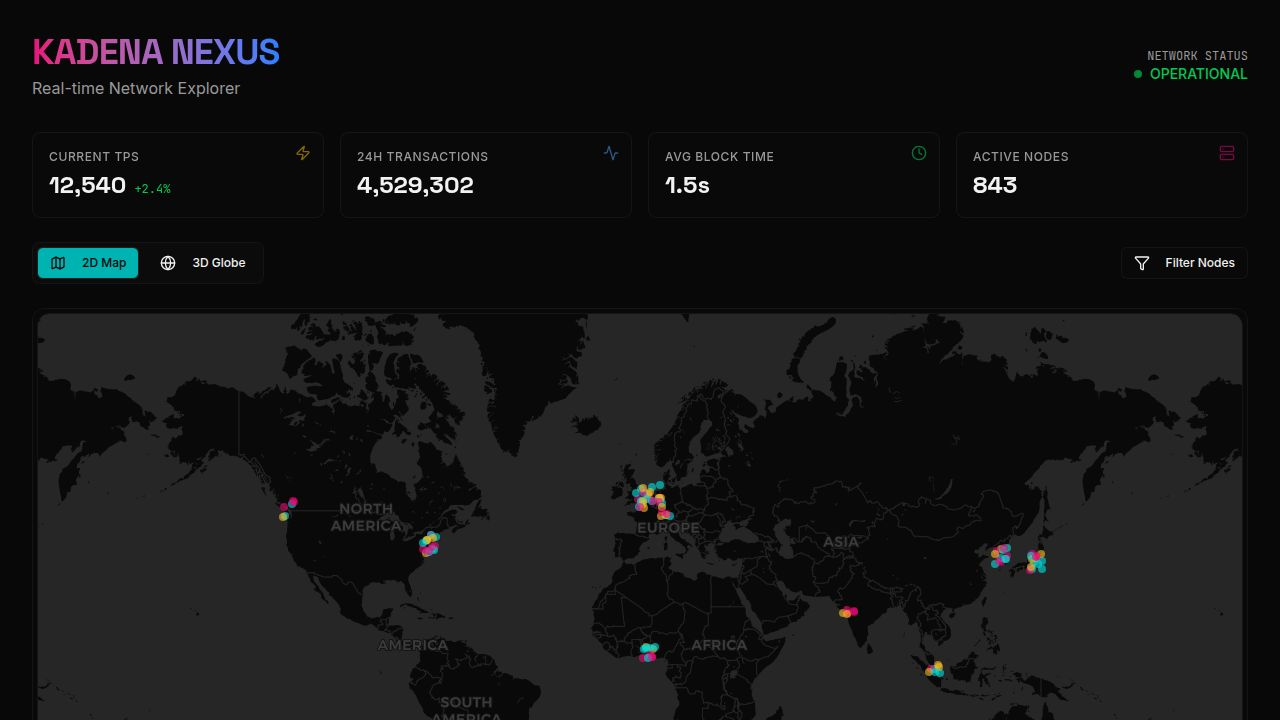
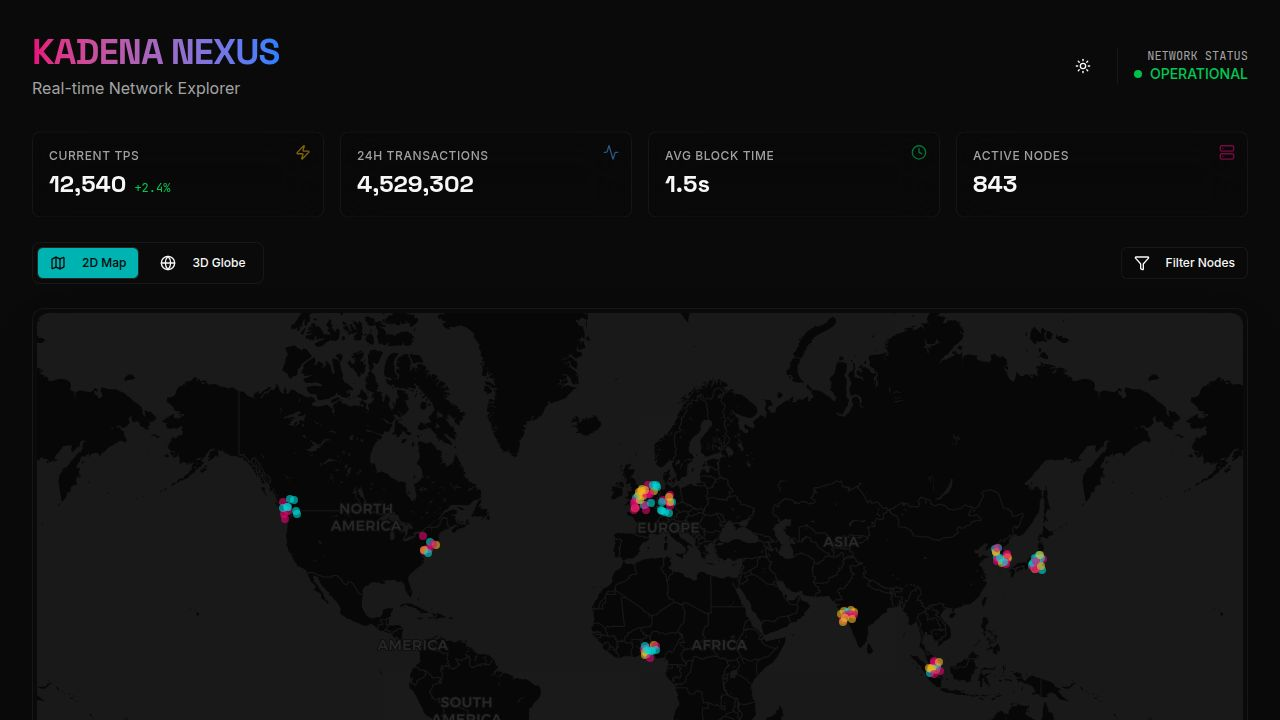
Make globe dots fully clickable and show node information
Add dialog components to display node details when clicked on the map or globe, and update `react-globe.gl` configuration for point click events.

Replit-Commit-Author: Agent
Replit-Commit-Session-Id: eb48dd41-f83d-4174-9800-faf2362cb8b8
Replit-Commit-Checkpoint-Type: full_checkpoint
Replit-Commit-Event-Id: 0487e07a-b27a-42f2-aa90-1769275adcc2
Replit-Commit-Screenshot-Url: https://storage.googleapis.com/screenshot-production-us-central1/6386beef-1aaa-4804-90c4-2ed44a6d0b4a/eb48dd41-f83d-4174-9800-faf2362cb8b8/Uy7ON0r
Replit-Helium-Checkpoint-Created: true

diff --git a/client/src/components/NodeMap.tsx b/client/src/components/NodeMap.tsx
@@ -1,6 +1,12 @@
 import { MapContainer, TileLayer, CircleMarker, Popup, ZoomControl } from 'react-leaflet';
 import { Node } from '@/data/mockData';
 import { useEffect, useState } from 'react';
+import {
+  Dialog,
+  DialogContent,
+  DialogHeader,
+  DialogTitle,
+} from "@/components/ui/dialog";
 
 interface NodeMapProps {
   nodes: Node[];
@@ -15,6 +21,7 @@ const TYPE_COLORS = {
 
 export function NodeMap({ nodes, theme = 'dark' }: NodeMapProps) {
   const [mounted, setMounted] = useState(false);
+  const [selectedNode, setSelectedNode] = useState<Node | null>(null);
 
   useEffect(() => {
     setMounted(true);
@@ -49,28 +56,56 @@ export function NodeMap({ nodes, theme = 'dark' }: NodeMapProps) {
               fillOpacity: 0.6,
               weight: 0,
             }}
+            eventHandlers={{
+              click: () => setSelectedNode(node)
+            }}
           >
-            <Popup>
-              <div className="p-1 min-w-[160px] text-foreground">
-                <div className="flex items-center justify-between mb-2">
-                  <span className="font-display font-bold text-sm">{node.type} Node</span>
-                  <div className={`w-2 h-2 rounded-full ${node.status === 'Online' ? 'bg-green-500' : 'bg-red-500'}`} />
-                </div>
-                <div className="space-y-1 text-xs opacity-80">
-                  <div className="flex justify-between">
-                    <span>Location:</span>
-                    <span>{node.city}</span>
-                  </div>
-                  <div className="flex justify-between">
-                    <span>ID:</span>
-                    <span className="font-mono">{node.id}</span>
-                  </div>
-                </div>
+            <Popup className="md:hidden">
+              <div className="p-1 min-w-[120px]">
+                <div className="font-bold">{node.type}</div>
+                <div className="text-xs opacity-80">{node.city}</div>
               </div>
             </Popup>
           </CircleMarker>
         ))}
       </MapContainer>
+
+      <Dialog open={!!selectedNode} onOpenChange={() => setSelectedNode(null)}>
+        <DialogContent className="sm:max-w-[425px]">
+          <DialogHeader>
+            <DialogTitle className="flex items-center gap-2">
+              <div className={`w-3 h-3 rounded-full ${selectedNode?.status === 'Online' ? 'bg-green-500' : 'bg-red-500'}`} />
+              {selectedNode?.type} Node Details
+            </DialogTitle>
+          </DialogHeader>
+          {selectedNode && (
+            <div className="grid gap-4 py-4">
+              <div className="grid grid-cols-2 items-center gap-4">
+                <span className="text-sm font-medium opacity-70">Node ID:</span>
+                <span className="text-sm font-mono">{selectedNode.id}</span>
+              </div>
+              <div className="grid grid-cols-2 items-center gap-4">
+                <span className="text-sm font-medium opacity-70">Location:</span>
+                <span className="text-sm">{selectedNode.city}, {selectedNode.country}</span>
+              </div>
+              <div className="grid grid-cols-2 items-center gap-4">
+                <span className="text-sm font-medium opacity-70">Status:</span>
+                <span className={`text-sm font-bold ${selectedNode.status === 'Online' ? 'text-green-500' : 'text-red-500'}`}>
+                  {selectedNode.status}
+                </span>
+              </div>
+              <div className="grid grid-cols-2 items-center gap-4">
+                <span className="text-sm font-medium opacity-70">Uptime:</span>
+                <span className="text-sm">{selectedNode.uptime}%</span>
+              </div>
+              <div className="grid grid-cols-2 items-center gap-4">
+                <span className="text-sm font-medium opacity-70">IP Address:</span>
+                <span className="text-sm font-mono">{selectedNode.ip}</span>
+              </div>
+            </div>
+          )}
+        </DialogContent>
+      </Dialog>
     </div>
   );
 }

diff --git a/client/src/components/GlobeView.tsx b/client/src/components/GlobeView.tsx
@@ -1,6 +1,12 @@
 import Globe, { GlobeMethods } from 'react-globe.gl';
 import { Node } from '@/data/mockData';
 import { useEffect, useRef, useState, useMemo } from 'react';
+import {
+  Dialog,
+  DialogContent,
+  DialogHeader,
+  DialogTitle,
+} from "@/components/ui/dialog";
 
 interface GlobeViewProps {
   nodes: Node[];
@@ -17,6 +23,7 @@ export function GlobeView({ nodes, theme = 'dark' }: GlobeViewProps) {
   const globeEl = useRef<GlobeMethods | undefined>(undefined);
   const [dimensions, setDimensions] = useState({ width: 800, height: 600 });
   const containerRef = useRef<HTMLDivElement>(null);
+  const [selectedNode, setSelectedNode] = useState<Node | null>(null);
 
   useEffect(() => {
     const handleResize = () => {
@@ -60,16 +67,56 @@ export function GlobeView({ nodes, theme = 'dark' }: GlobeViewProps) {
         pointAltitude={0.05}
         pointColor="color"
         pointRadius={0.5}
-        pointsMerge={true}
+        pointsMerge={false} // Important for individual clickability
+        onPointClick={(point: any) => {
+          setSelectedNode(point);
+        }}
         pointLabel={(d: any) => `
           <div style="background: ${theme === 'dark' ? 'rgba(10,10,10,0.9)' : 'rgba(255,255,255,0.9)'}; 
                padding: 8px; border-radius: 4px; border: 1px solid rgba(128,128,128,0.2); 
-               color: ${theme === 'dark' ? 'white' : 'black'}; font-family: sans-serif;">
-            <div style="font-weight: bold; margin-bottom: 4px;">${d.type} Node</div>
-            <div style="font-size: 12px;">${d.city}, ${d.country}</div>
+               color: ${theme === 'dark' ? 'white' : 'black'}; font-family: sans-serif; pointer-events: none;">
+            <div style="font-weight: bold; margin-bottom: 2px;">${d.type} Node</div>
+            <div style="font-size: 11px; opacity: 0.8;">Click for details</div>
           </div>
         `}
       />
+
+      <Dialog open={!!selectedNode} onOpenChange={() => setSelectedNode(null)}>
+        <DialogContent className="sm:max-w-[425px]">
+          <DialogHeader>
+            <DialogTitle className="flex items-center gap-2">
+              <div className={`w-3 h-3 rounded-full ${selectedNode?.status === 'Online' ? 'bg-green-500' : 'bg-red-500'}`} />
+              {selectedNode?.type} Node Details
+            </DialogTitle>
+          </DialogHeader>
+          {selectedNode && (
+            <div className="grid gap-4 py-4">
+              <div className="grid grid-cols-2 items-center gap-4">
+                <span className="text-sm font-medium opacity-70">Node ID:</span>
+                <span className="text-sm font-mono">{selectedNode.id}</span>
+              </div>
+              <div className="grid grid-cols-2 items-center gap-4">
+                <span className="text-sm font-medium opacity-70">Location:</span>
+                <span className="text-sm">{selectedNode.city}, {selectedNode.country}</span>
+              </div>
+              <div className="grid grid-cols-2 items-center gap-4">
+                <span className="text-sm font-medium opacity-70">Status:</span>
+                <span className={`text-sm font-bold ${selectedNode.status === 'Online' ? 'text-green-500' : 'text-red-500'}`}>
+                  {selectedNode.status}
+                </span>
+              </div>
+              <div className="grid grid-cols-2 items-center gap-4">
+                <span className="text-sm font-medium opacity-70">Uptime:</span>
+                <span className="text-sm">{selectedNode.uptime}%</span>
+              </div>
+              <div className="grid grid-cols-2 items-center gap-4">
+                <span className="text-sm font-medium opacity-70">IP Address:</span>
+                <span className="text-sm font-mono">{selectedNode.ip}</span>
+              </div>
+            </div>
+          )}
+        </DialogContent>
+      </Dialog>
     </div>
   );
 }
